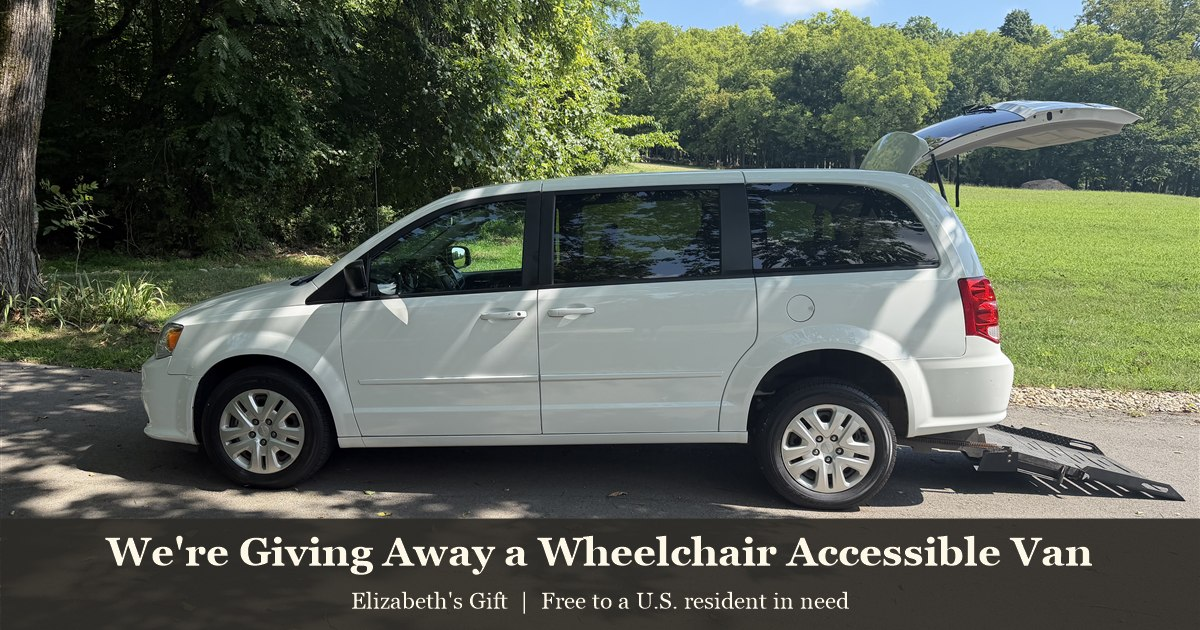
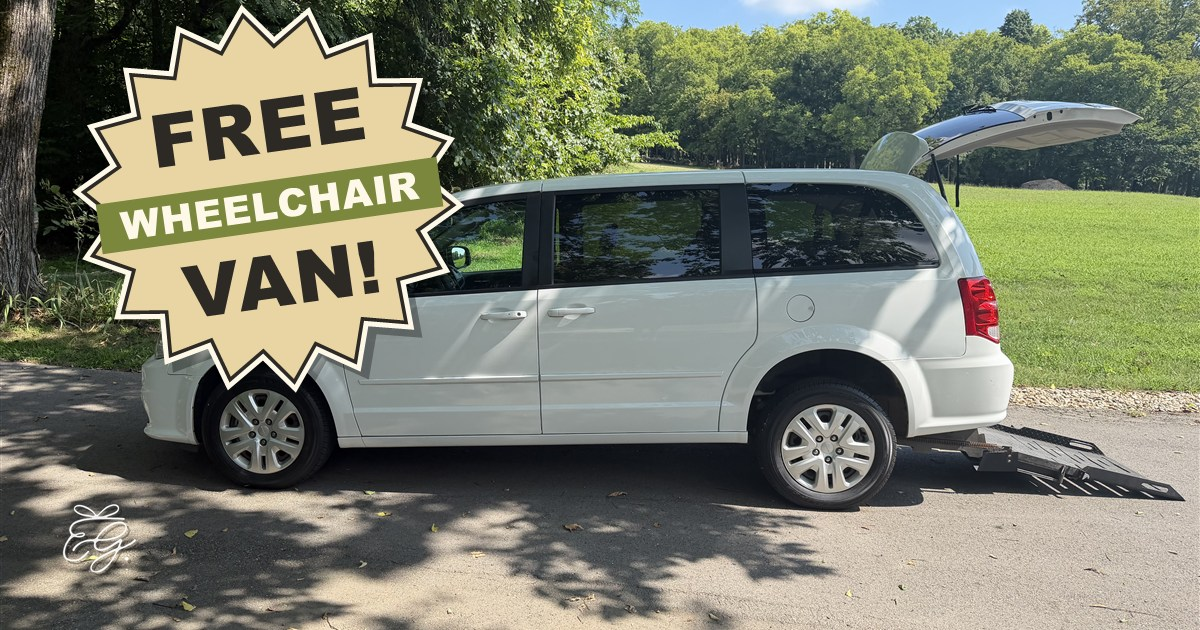
Update van giveaway share card
Replace the text footer band on the social image with a starburst
sticker reading "FREE WHEELCHAIR VAN!" in brand colors, and swap the
text wordmark for the EG logo as a watermark. Drop the residency
mention from the share description and structured data; the
eligibility list on the page still states it.

Changed region(s): [[0.0, 0.7841, 1.0, 1.0], [0.0617, 0.0, 0.4008, 0.6333]]

diff --git a/src/app/van-giveaway/page.tsx b/src/app/van-giveaway/page.tsx
@@ -6,7 +6,7 @@ import { Check } from "lucide-react";
 
 const pageTitle = "Free Wheelchair Accessible Van Giveaway — Elizabeth's Gift";
 const pageDescription =
-  "Elizabeth's Gift is giving away a free wheelchair accessible van, a 2017 Dodge Grand Caravan with a rear-entry ramp, to a U.S. resident who needs accessible transportation. Apply today.";
+  "Elizabeth's Gift is giving away a free wheelchair accessible van, a 2017 Dodge Grand Caravan with a rear-entry ramp, to someone who needs accessible transportation. Apply today.";
 
 // 1200×630 social share card generated from the side-profile photo of the van.
 const ogImage = "/images/van/og-van-giveaway.jpg";
@@ -65,7 +65,7 @@ const jsonLd = {
     {
       "@type": "SpecialAnnouncement",
       name: "Free Wheelchair Accessible Van Giveaway",
-      text: "Elizabeth's Gift is gifting a 2017 Dodge Grand Caravan with a rear-entry manual wheelchair ramp, free and as-is, to a U.S. resident in need of accessible transportation.",
+      text: "Elizabeth's Gift is gifting a 2017 Dodge Grand Caravan with a rear-entry manual wheelchair ramp, free and as-is, to someone in need of accessible transportation.",
       datePosted: "2026-08-07",
       url: "https://www.elizabethsgift.com/van-giveaway",
       announcementLocation: { "@id": "https://www.elizabethsgift.com/#org" },
